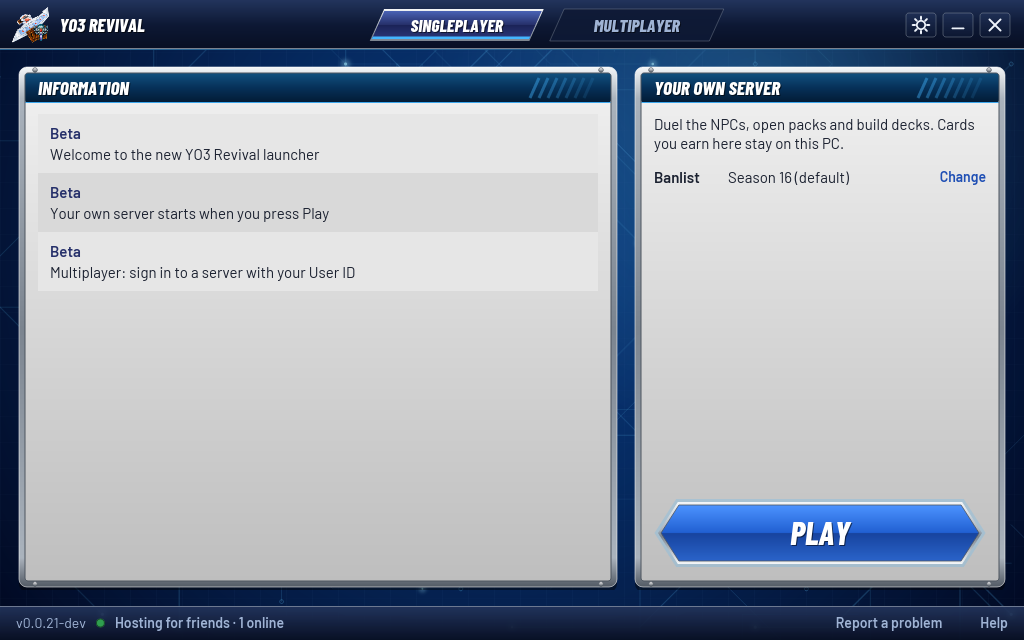
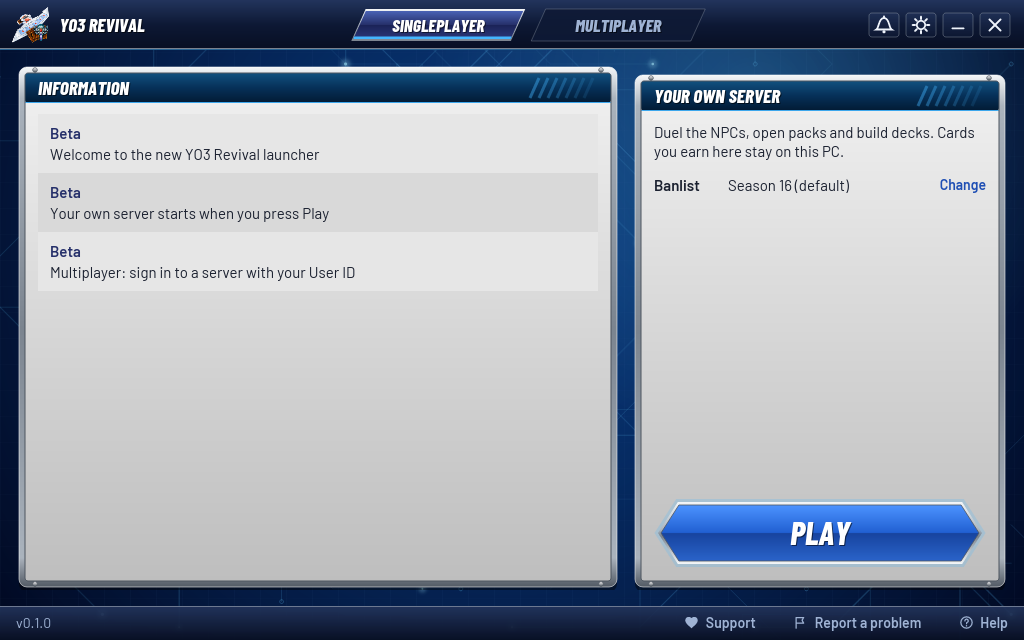
docs: a shorter README, with Multiplayer and our server shown
The README now leads with what Revival is, three steps to start, and the
Singleplayer and Multiplayer screens side by side, then hosting, help and
developers in a few lines each. Both launcher screenshots are retaken from
the packaged v0.1.0 Desktop: Singleplayer's PLAY, and Multiplayer with the
YO3 Revival server listed and online.

diff --git a/README.md b/README.md
@@ -1,63 +1,57 @@
 # YO3 Revival
 
-A private server and launcher for the retired **Yu-Gi-Oh! ONLINE 3 (Duel Accelerator)**. Play again against the
-computer or with friends, using the original game client on your own server.
-
-## In the game
-
-Duel against Kaiba or challenge friends. Build and edit decks, open booster packs, trade cards and chat in the
-original game world.
+A private server and launcher for the retired **Yu-Gi-Oh! ONLINE 3 (Duel Accelerator)**. Duel the computer on your
+own PC, or play with others on our server or a friend's, using the original game client.
 
 ![Stardust Dragon on the field in the original game client, running on Revival](screenshots/duel.png)
+
+## Start playing
+
+You need the original game **v1.153**, installed separately: Revival does not include it
+([where to get it](docs/launcher.md#getting-the-original-game)). It runs on **64-bit Windows 10/11** or **Linux with
+Wine**. Windows 7 is not supported.
+
+1. [Download the latest release](https://github.com/usersina/yo3-revival/releases/latest): **Desktop** for your
+   system. Extract the whole archive and open **`yo3-revival`** (`.exe` on Windows) in `yo3-revival-desktop/`.
+2. **Setup** finds your game folder and checks it. Click **Done**.
+3. Click **PLAY**, choose **ONLINE** in the game, then your player. Your starting deck is ready.
+
+| Singleplayer: your own server, one click                          | Multiplayer: our server is listed already                         |
+| ----------------------------------------------------------------- | ----------------------------------------------------------------- |
+| ![Singleplayer with the PLAY button](screenshots/desktop.png)     | ![Multiplayer with the YO3 Revival server listed and online](screenshots/multiplayer.png) |
+
+**Singleplayer** needs no account: visit **Kaiba Corporation** on the map for your first duel
+([playing guide](docs/playing.md)). For **Multiplayer**, pick our server or add a friend's with their invite link,
+then create an account with an invite code and sign in ([joining a server](docs/launcher.md#join-another-server)).
 
 | Duel against Kaiba                                             | Build your deck                                                                            |
 | -------------------------------------------------------------- | ------------------------------------------------------------------------------------------ |
 | ![Meet Seto Kaiba at Kaiba Corporation](screenshots/kaiba.png) | ![Elemental Hero Shining Flare Wingman selected in the deck editor](screenshots/decks.png) |
 
-[Features and limitations](docs/playing.md#features-and-limitations) · [Feature status](docs/features.md) · [Development roadmap](docs/roadmap.md)
+Antivirus warning? [Check the download and what to allow](docs/antivirus.md). Something else wrong?
+[Troubleshooting](docs/launcher.md#troubleshooting).
 
-## Start playing
+## Host a server
 
-You need the original game **v1.153**, installed separately. Revival does not include it.
-Use **64-bit Windows 10/11**, or **Linux with Wine**. **Windows 7 is not supported.**
-[Game installation help](docs/launcher.md#getting-the-original-game).
+- **For friends, from the launcher:** **Host for friends** on the Multiplayer tab gives you an invite link per friend
+  ([hosting guide](docs/launcher.md#host-friends)).
+- **On a Linux VPS:** [one-time setup](docs/deployment.md), or [Docker Compose with HTTPS](docs/docker.md).
+- **From a terminal:** the Scripts edition ([terminal setup](docs/scripts.md#host-friends),
+  [commands](docs/guide.md)).
 
-1. [Download the latest release](https://github.com/usersina/yo3-revival/releases/latest). Choose **Desktop** for
-   your system and extract **the whole archive**.
-2. Open **`yo3-revival.exe`** on Windows or **`yo3-revival`** on Linux inside `yo3-revival-desktop/`.
-3. **Setup** finds your game folder (the one containing `yo3.exe`) and checks it. Click **Done**.
-4. Click **PLAY**. In the game, choose **ONLINE**, then select your player. Your starting deck is ready automatically.
-5. Visit **Kaiba Corporation** on the map for your first duel. [Playing guide](docs/playing.md).
+## Help and more
 
-**Antivirus flags Revival?** For a verified false positive, allow the affected file or exclude only the extracted
-`yo3-revival-desktop/` folder (after an in-app update, the version's folder under
-`%LOCALAPPDATA%\YO3 Revival\updates\installs\`). [Check the download, restore the file and which files to allow](docs/antivirus.md).
+This is a beta: **Report a problem** in the launcher's footer includes your logs
+([reporting guide](docs/launcher.md#logs-and-support)) · [Issues](https://github.com/usersina/yo3-revival/issues/new/choose)
+· [Discussions](https://github.com/usersina/yo3-revival/discussions) · [Features](docs/playing.md#features-and-limitations)
+and [their status](docs/features.md) · [All documentation](docs/README.md)
 
-![The launcher: Singleplayer, Multiplayer, PLAY, Settings and Help](screenshots/desktop.png)
+**Developers:** the server is written in Rust, reverse-engineered from the game client, and runs duels on
+[EDOPro](https://github.com/edo9300/edopro)'s rules engine. Start with [docs/](docs/README.md) and
+[AGENTS.md](https://github.com/usersina/yo3-revival/blob/main/AGENTS.md).
 
-[Join a friend](docs/launcher.md#join-another-server) ·
-[Troubleshooting](docs/launcher.md#troubleshooting) ·
-[All documentation](docs/README.md)
-
-## Host or manage a server
-
-- **Desktop:** **Host for friends** on the Multiplayer tab runs a server on your PC and gives you an invite link for
-  each friend to send. [Hosting guide](docs/launcher.md#host-friends).
-- **Linux VPS:** [One-time setup](docs/deployment.md) or [Docker Compose and HTTPS setup](docs/docker.md).
-- **Scripts edition:** Follow the [terminal hosting setup](docs/scripts.md#host-friends) and
-  [server and account commands](docs/guide.md).
-
-Beta: **Report a problem** in the launcher's footer includes your logs. [Reporting guide](docs/launcher.md#logs-and-support) · [GitHub issues](https://github.com/usersina/yo3-revival/issues/new/choose) · [Discussions](https://github.com/usersina/yo3-revival/discussions).
-[MIT](LICENSE) · [Project, credits and support](docs/about.md) · [Code signing policy](docs/code-signing.md). Unaffiliated with Konami.
-
-## For developers
-
-The server is written in Rust, reverse-engineered from the game client, and runs duels on
-[EDOPro](https://github.com/edo9300/edopro)'s rules engine. Everything technical (building from source, the protocol,
-the client's internals, the roadmap) is in [docs/](docs/README.md). To contribute, read
-[AGENTS.md](https://github.com/usersina/yo3-revival/blob/main/AGENTS.md) first.
-
----
+[MIT](LICENSE) · [Project, credits and support](docs/about.md) · [Code signing policy](docs/code-signing.md) ·
+Unaffiliated with Konami.
 
 <sub>If you'd like to support the work: [donatr.ee](https://donatr.ee/usersina/) · BTC
 `bc1qawq699ewyq0vgyux6nmyyx29r4vhj573l77elj`</sub>

diff --git a/docs/launcher.md b/docs/launcher.md
@@ -84,7 +84,7 @@ starts, newest first); Settings → Singleplayer has the backups, a reset and th
 
 The **Multiplayer** tab signs in to servers with a User ID and password ([accounts](authentication.md#accounts)):
 
-![The Multiplayer tab, signed in to a server, with the server tools beside the list](../screenshots/multiplayer.png)
+![The Multiplayer tab with the YO3 Revival server listed and online, the sign-in form and the server tools](../screenshots/multiplayer.png)
 
 - **The server list**: the official servers (the project's YO3 Revival server, from a list the project signs) and the ones
   you added, the last one you played on first. Each shows whether it is online (the dot: green, amber or red), with how
